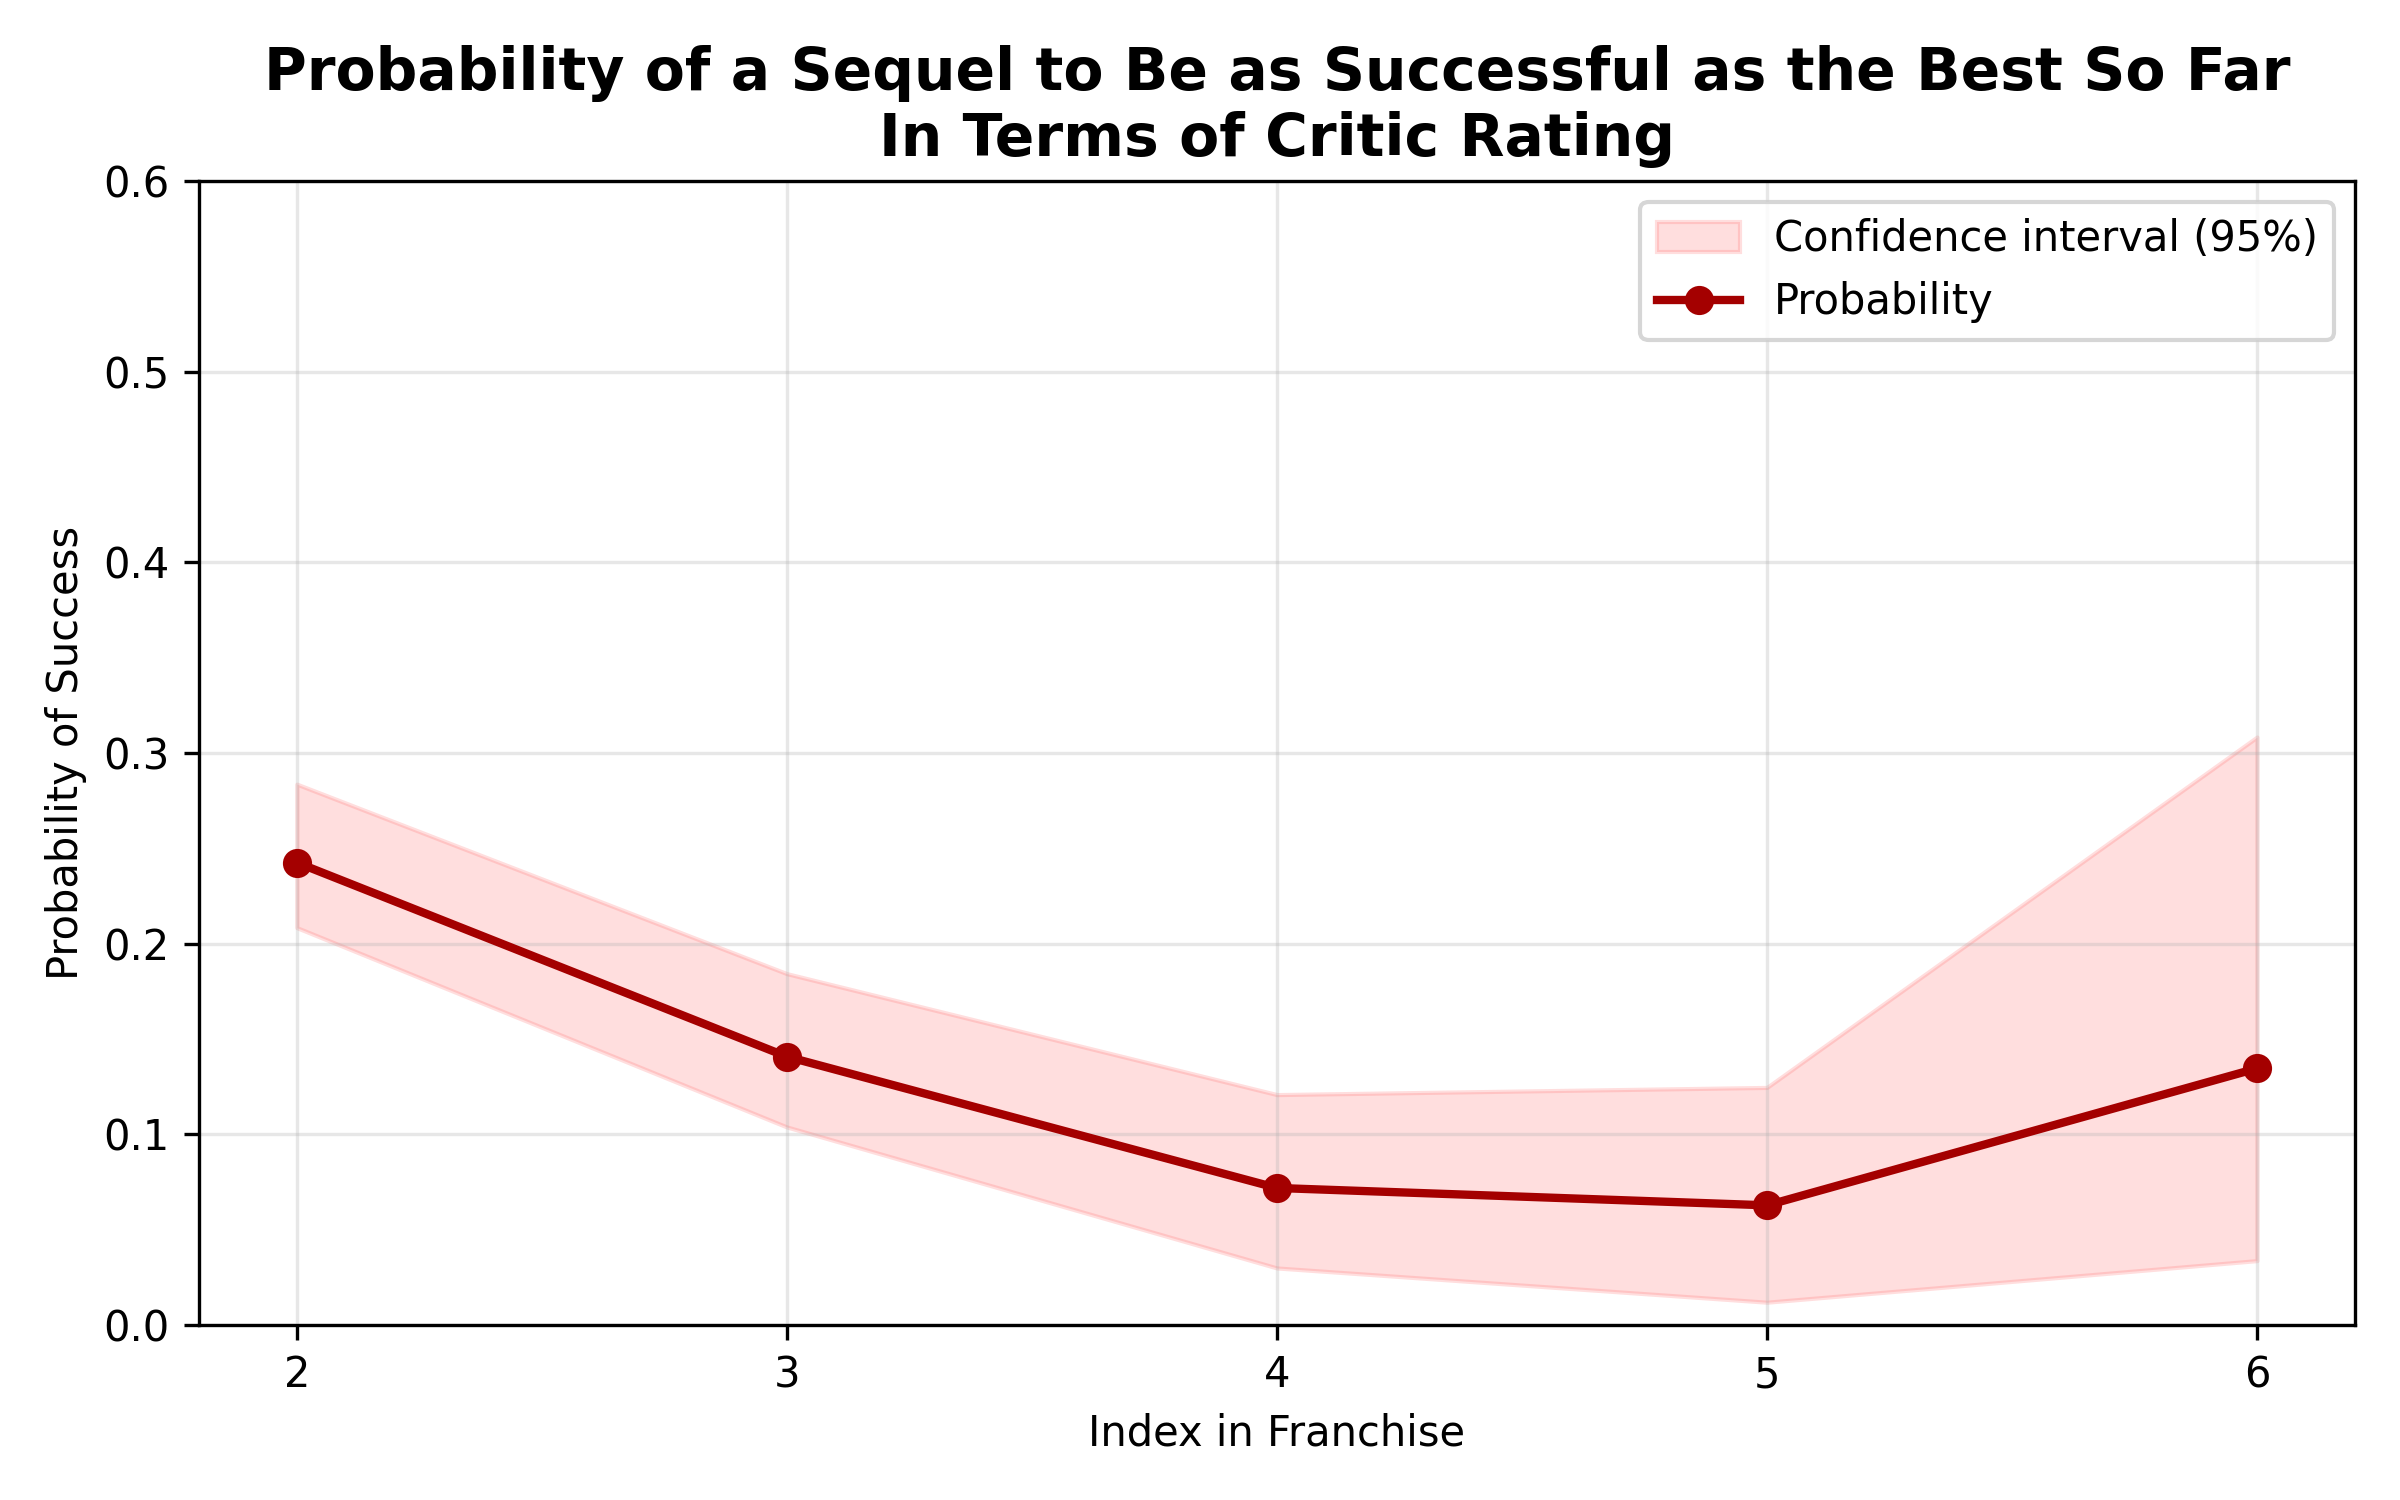
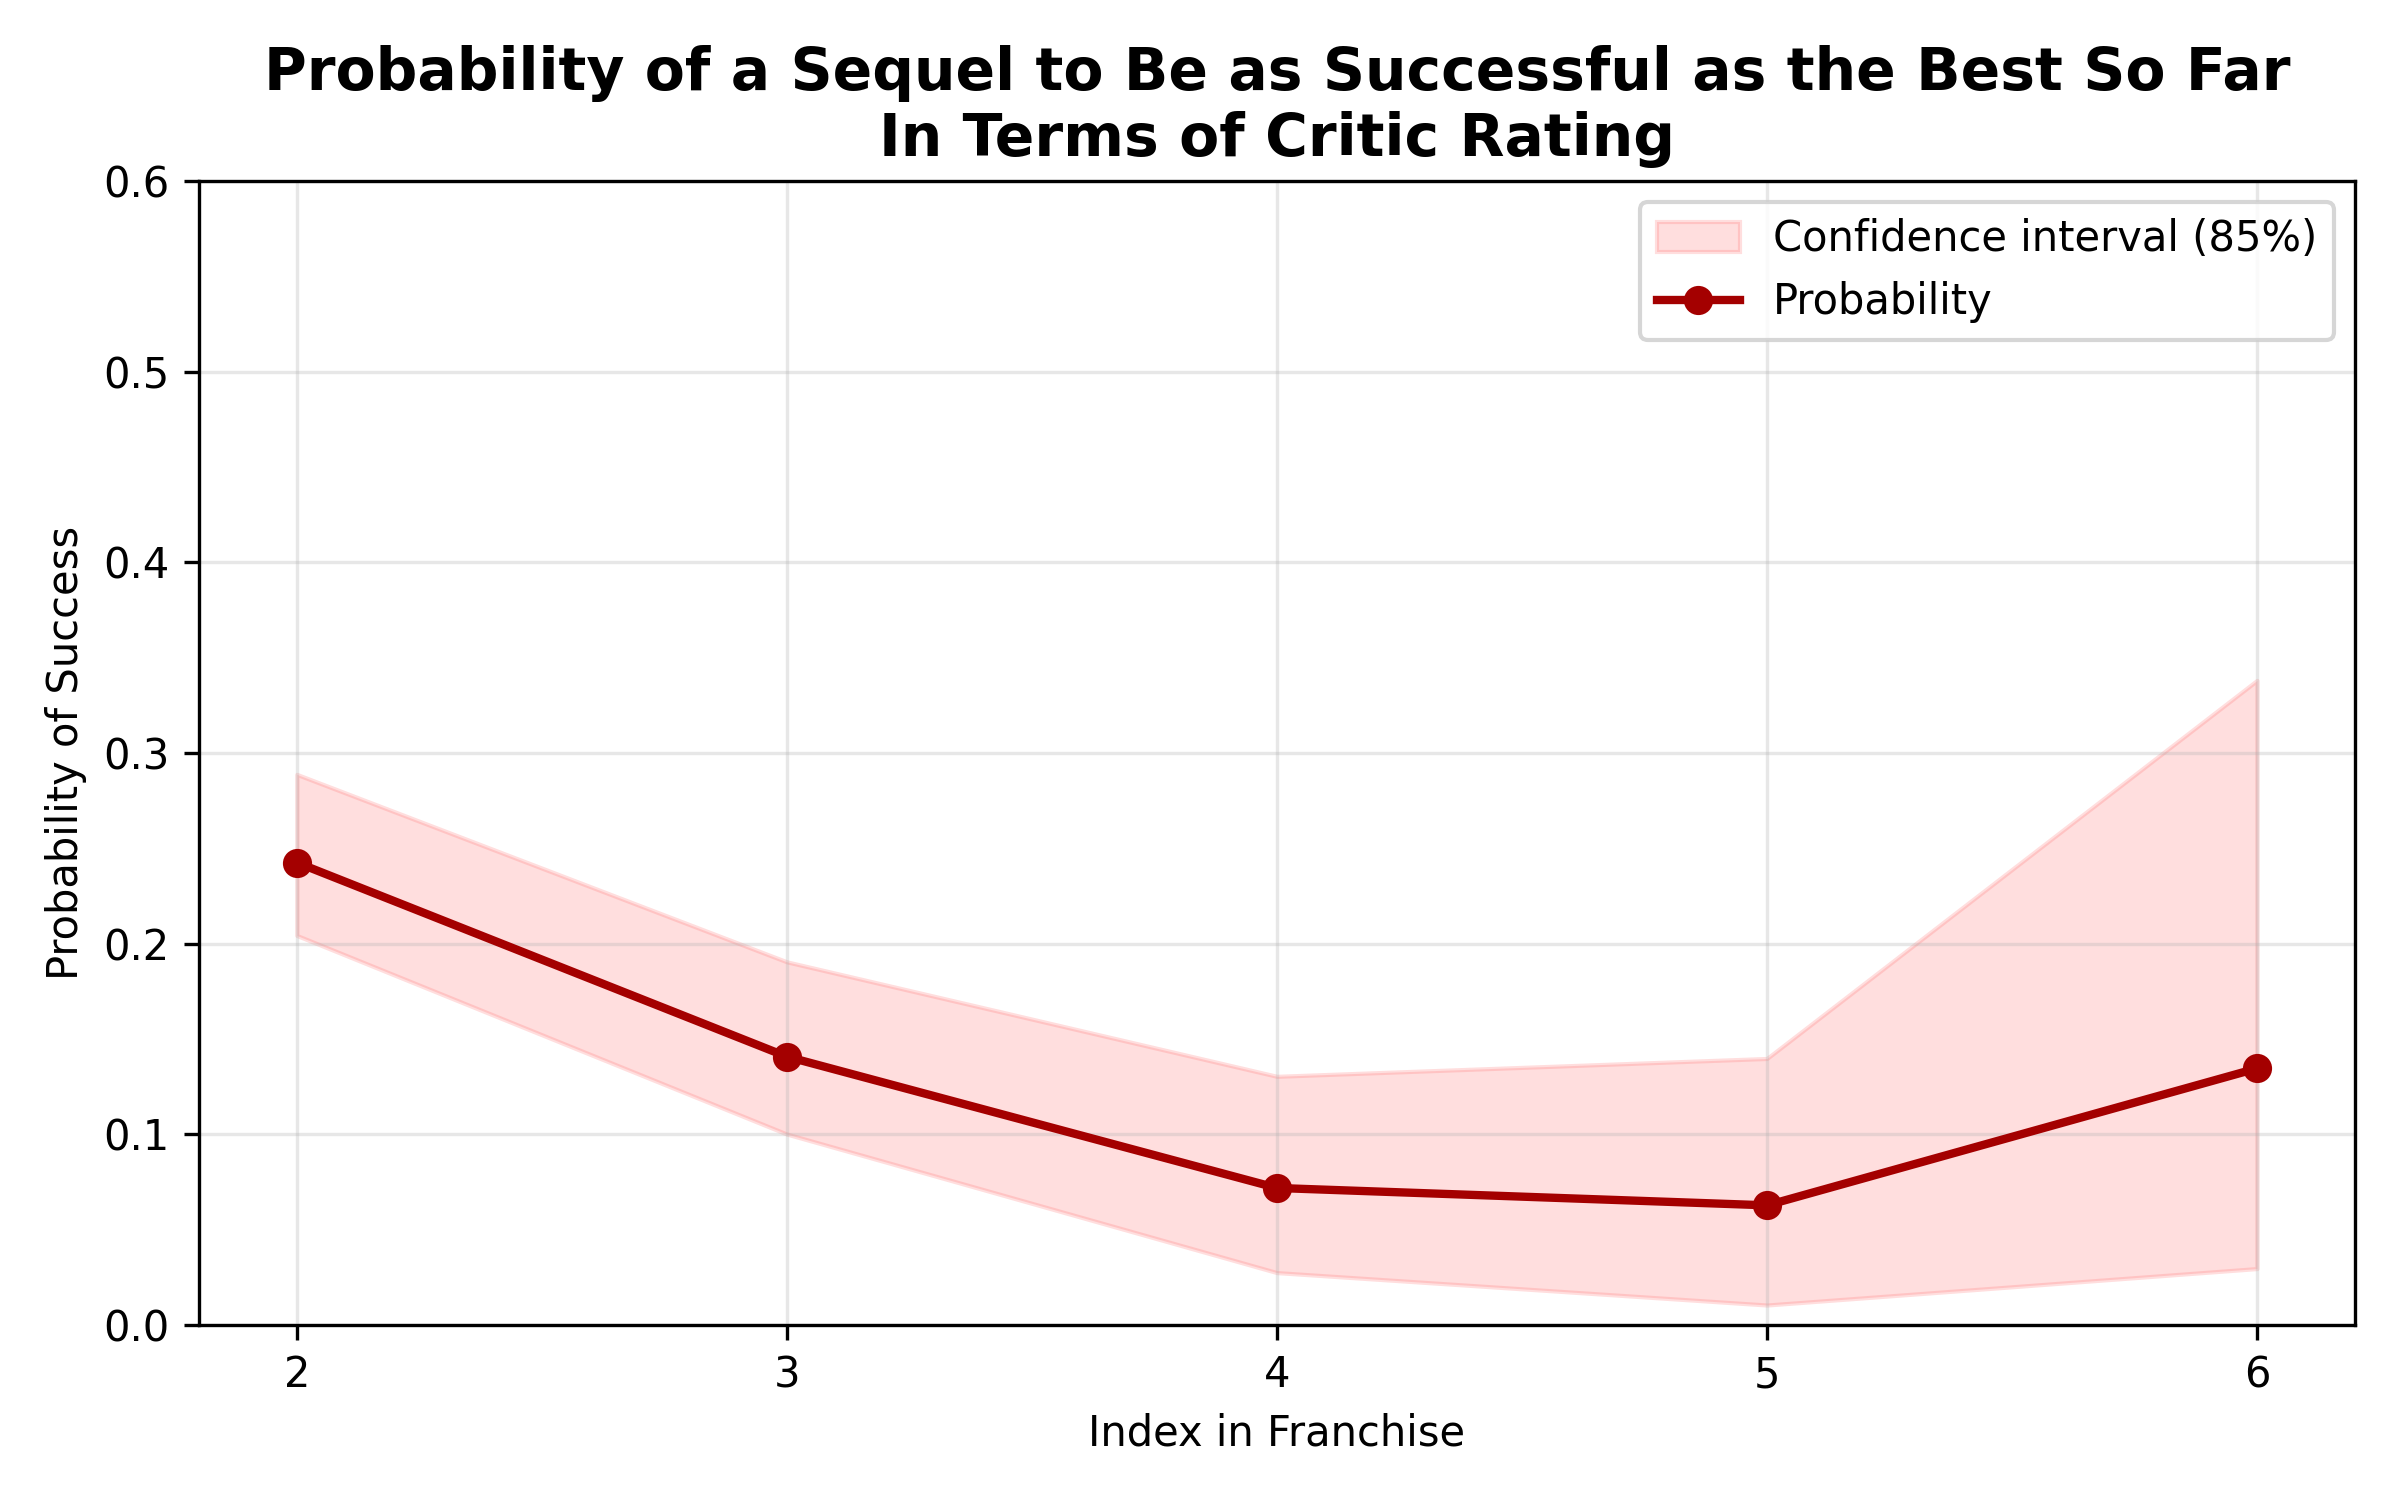
Adjust confidence interval calculations and update alpha value in probability functions

diff --git a/Curtain call, please/curtain_call_visualizations.py b/Curtain call, please/curtain_call_visualizations.py
@@ -76,7 +76,7 @@ def prepare_dataframe_for_probability_of_success_calculation(data: pd.DataFrame,
 
 def calculate_dataframe_for_probability_of_success(df: pd.DataFrame, metric: Metric = ROI,
                                                    tolerance_for_successful: int = 0,
-                                                   m: int = 5, alpha: float = 0.2) -> pd.DataFrame:
+                                                   m: int = 5, alpha: float = 0.15) -> pd.DataFrame:
     """
     Calculate a DataFrame summarizing the probability of success for movies in a franchise
     based on their performance metrics.
@@ -135,7 +135,7 @@ def calculate_dataframe_for_probability_of_success(df: pd.DataFrame, metric: Met
     # Calculate shrunken estimate of probability of success at each index
     agg_df[BAYESIAN_SHRUNKEN_PROB_OF_SUCCESS] = (K_i + m * P_mean) / (N_i + m)
 
-    # Calculate Wilson confidence interval 95% (better for proportions than normal approx)
+    # Calculate Wilson confidence interval 85% (better for proportions than normal approx)
     z = norm.ppf(1 - alpha / 2)
 
     P_i = agg_df[PROB_OF_SUCCESS_NAIVE]
@@ -152,7 +152,7 @@ def calculate_dataframe_for_probability_of_success(df: pd.DataFrame, metric: Met
 def plot_probability_of_success(data: pd.DataFrame, metric: Metric = ROI,
                                 max_length_of_group: int = 6, min_length_of_group: int = 0,
                                 tolerance_for_successful: int = 0, m: int = 5,
-                                alpha: float = 0.2, title: str = TITLE_MAP[ROI]) -> None:
+                                alpha: float = 0.15, title: str = TITLE_MAP[ROI]) -> None:
     """
     Plots the probability of success for a given dataset and metric, with confidence intervals.
     This function visualizes the Bayesian shrunken probability of success for groups within
@@ -188,7 +188,7 @@ def plot_probability_of_success(data: pd.DataFrame, metric: Metric = ROI,
     fig, ax = plt.subplots(figsize=(8, 5))
 
     # Plot CI as shaded region
-    ax.fill_between(X + 1, CI_LO, CI_HI, alpha=0.2, color=CI_COLOR, label="Confidence interval (95%)")
+    ax.fill_between(X + 1, CI_LO, CI_HI, alpha=0.2, color=CI_COLOR, label="Confidence interval (85%)")
 
     # Plot Bayesian shrunken estimate as line with markers
     ax.plot(X + 1, Y_SHRUNK, marker="o", color=MAIN_COLOR, linewidth=2, label="Probability")
